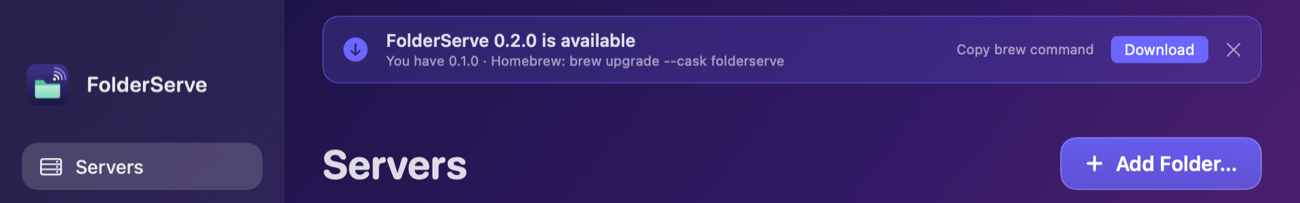
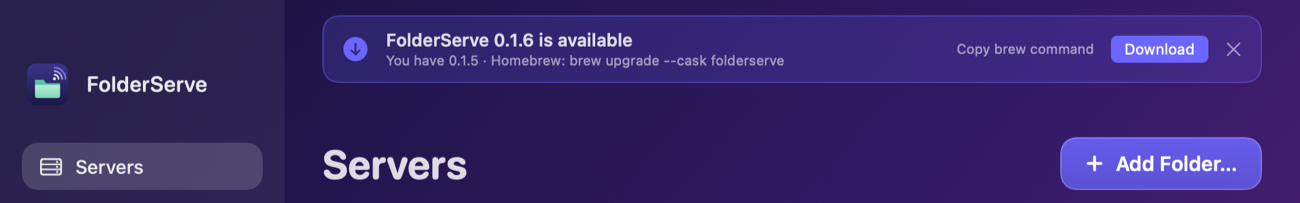
docs: refresh screenshots for the status filter, Edit & Replay, Open at and Recent folders
Activity (list and detail), Options, Menu bar, Settings and the update banner are re-rendered from the sample data,
with realistic version numbers (0.1.5 to 0.1.6) instead of 0.1.0 / 0.2.0. New image of the Edit & Replay sheet,
README alt texts updated, bug report example version set to 0.1.6.

diff --git a/FolderServeTests/SnapshotTests.swift b/FolderServeTests/SnapshotTests.swift
@@ -185,18 +185,18 @@ final class SnapshotTests: XCTestCase {
 
     /// The Servers screen with an update notice, and Settings with the update row (a checker that found nothing newer).
     func testRenderUpdateSnapshots() async throws {
-        let release = LatestRelease(tag: "v0.2.0", version: AppVersion("0.2.0")!,
-                                    url: URL(string: "https://github.com/fatihsenel/FolderServe/releases/tag/v0.2.0")!)
+        let release = LatestRelease(tag: "v0.1.6", version: AppVersion("0.1.6")!,
+                                    url: URL(string: "https://github.com/fatihsenel/FolderServe/releases/tag/v0.1.6")!)
         let defaults = UserDefaults(suiteName: "snap-\(UUID().uuidString)")!
-        let newer = UpdateChecker(currentVersion: AppVersion("0.1.0"), defaults: defaults, fetch: { release })
+        let newer = UpdateChecker(currentVersion: AppVersion("0.1.5"), defaults: defaults, fetch: { release })
         await newer.checkNow()
-        let current = UpdateChecker(currentVersion: AppVersion("0.2.0"), defaults: defaults, fetch: { release })
+        let current = UpdateChecker(currentVersion: AppVersion("0.1.6"), defaults: defaults, fetch: { release })
         await current.checkNow()
         for (name, checker, tab) in [("update-banner", newer, SidebarItem.servers), ("settings-updates", current, SidebarItem.settings)] {
             let view = MainWindow(initialSelection: tab)
                 .environment(PreviewData.manager(populated: tab != .servers)).environment(\.updates, checker)
                 .environment(\.colorScheme, .dark).environment(\.isSnapshotRendering, true)
-                .frame(width: 960, height: 720)
+                .frame(width: 960, height: 820)   // tall enough that no Settings row is squeezed into an ellipsis
             let renderer = ImageRenderer(content: view); renderer.scale = 2
             let png = try XCTUnwrap(NSBitmapImageRep(data: try XCTUnwrap(renderer.nsImage?.tiffRepresentation))?.representation(using: .png, properties: [:]))
             let dir = ProcessInfo.processInfo.environment["FOLDERSERVE_SNAPSHOT_DIR"] ?? NSTemporaryDirectory()

diff --git a/FolderServe/UI/Previews.swift b/FolderServe/UI/Previews.swift
@@ -159,9 +159,9 @@ extension PreviewData {
     return RequestDetailView(line: s.page, onClose: {}).environment(s.manager).frame(width: 520, height: 600)
 }
 #Preview("Update banner") {
-    UpdateBanner(release: LatestRelease(tag: "v0.2.0", version: AppVersion("0.2.0")!,
-                                        url: URL(string: "https://github.com/fatihsenel/FolderServe/releases/tag/v0.2.0")!),
-                 current: AppVersion("0.1.0")!)
+    UpdateBanner(release: LatestRelease(tag: "v0.1.6", version: AppVersion("0.1.6")!,
+                                        url: URL(string: "https://github.com/fatihsenel/FolderServe/releases/tag/v0.1.6")!),
+                 current: AppVersion("0.1.5")!)
         .padding(28).frame(width: 760)
 }
 #Preview("Menu bar") { MenuBarView().environment(PreviewData.manager(populated: true)).frame(width: 320) }

diff --git a/README.md b/README.md
@@ -35,19 +35,19 @@ Rendered from the app's built-in sample data (no real folders or requests).
 
 <img src="docs/screenshots/servers-list.png" alt="Servers screen with five sample folders: running, folder missing, port in use and finding a port" width="720">
 
-<img src="docs/screenshots/activity-detail.png" alt="Activity: request list with the slowest request marked, and the selected request's Copy as cURL and Replay buttons, headers, forwarded address and timing" width="900">
+<img src="docs/screenshots/activity-detail.png" alt="Activity: type and status chips, the request list with the slowest request marked, and the selected request's Copy as cURL, Replay and Edit & Replay buttons, headers, forwarded address and timing" width="900">
 
 | Empty state | Menu bar |
 |---|---|
-| ![Empty Servers screen with Add Folder and Choose Folder buttons](docs/screenshots/servers-empty.png) | ![Menu bar window listing five servers](docs/screenshots/menu-bar.png) |
+| ![Empty Servers screen with Add Folder and Choose Folder buttons](docs/screenshots/servers-empty.png) | ![Menu bar window listing five servers and two recent folders](docs/screenshots/menu-bar.png) |
 
 | Activity | Options |
 |---|---|
-| ![Activity list with a slowest-request marker and time column](docs/screenshots/activity-list.png) | ![Options popover: SPA mode, Cache, Name address, HTTPS, CORS](docs/screenshots/options.png) |
+| ![Activity filtered to errors: type chips, status chips (any, success, redirects, errors), search and the matching requests](docs/screenshots/activity-list.png) | ![Options popover: SPA mode, Cache, Name address, Open at, HTTPS, CORS](docs/screenshots/options.png) |
 
 ![Foldable, coloured JSON tree](docs/screenshots/json-tree.png)
 
-<img src="docs/screenshots/settings.png" alt="Settings: start servers at launch, serve dotfiles, launch at login, splash screen" width="720">
+<img src="docs/screenshots/settings.png" alt="Settings: start servers at launch, serve dotfiles, launch at login, browser to open pages in, update check, splash screen" width="720">
 
 ## Features
 
@@ -224,6 +224,8 @@ whole (bodies are only kept for proxied calls, up to 32 KB). `Authorization` and
 remove) or the body, then **Send**. The host is always the server's current address; `Host`, `Content-Length` and
 `Connection` are set for you. A body that was cut off or dropped starts empty, so you type the one to send. The new request
 appears in Activity, and **Show in Activity** jumps to it. Edits are never written to disk.
+
+<img src="docs/screenshots/edit-replay.png" alt="The Edit & Replay sheet: method, path, headers, body, and the status of the answer" width="600">
 
 ## Show in Finder
 
